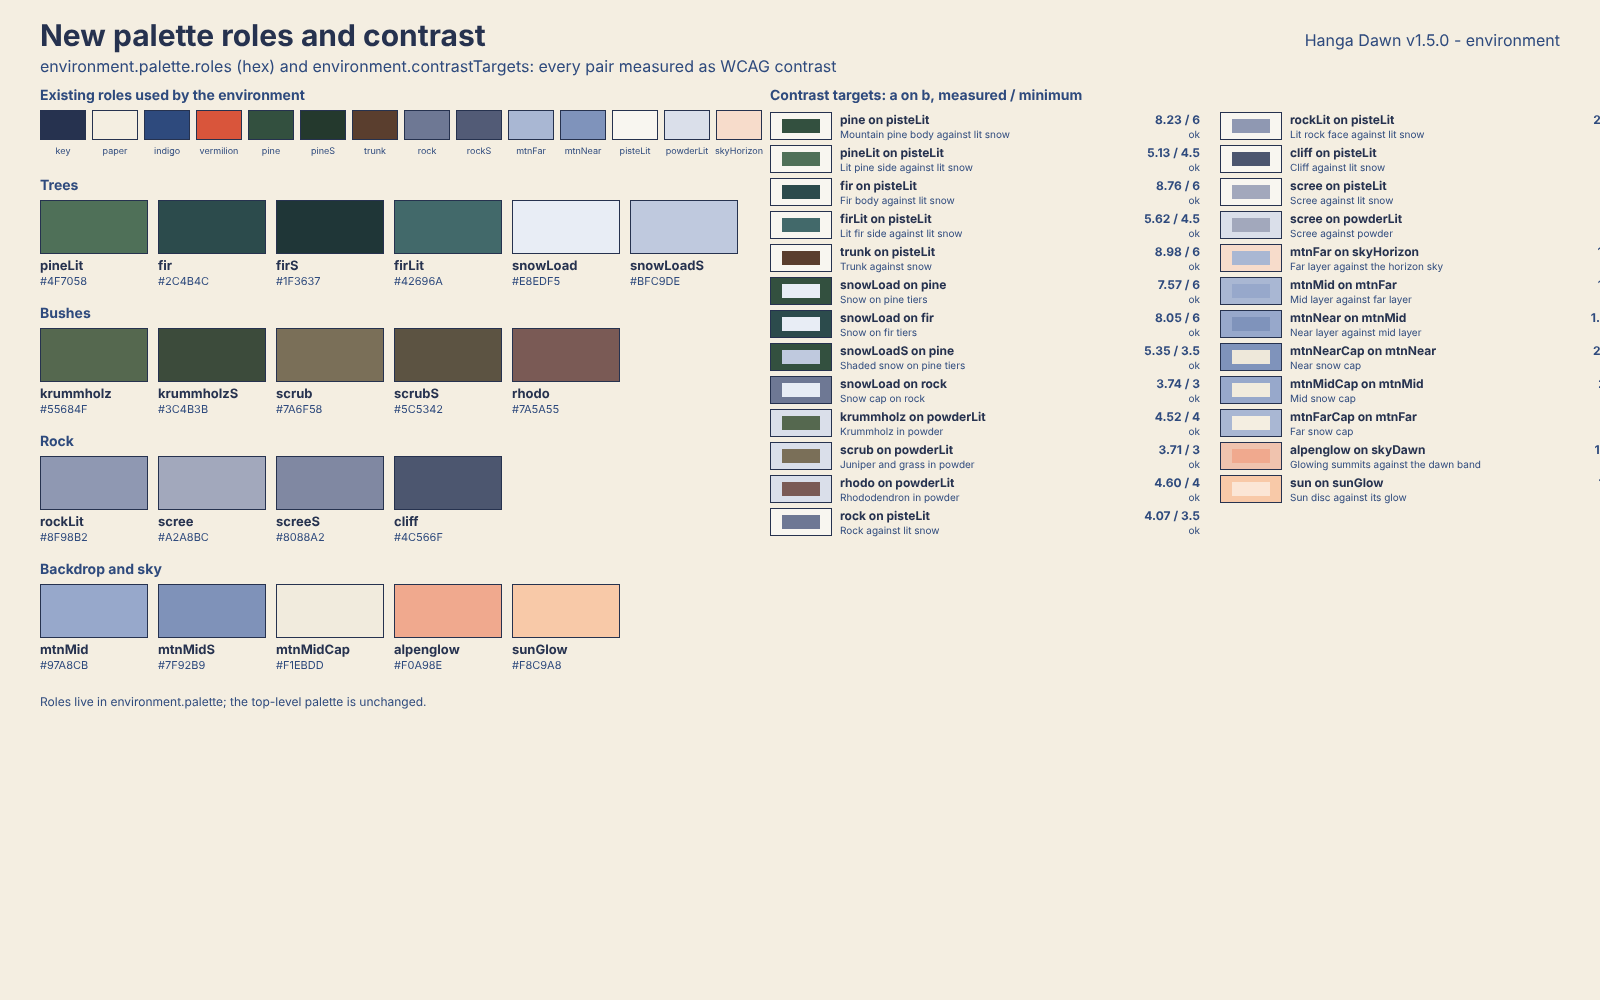
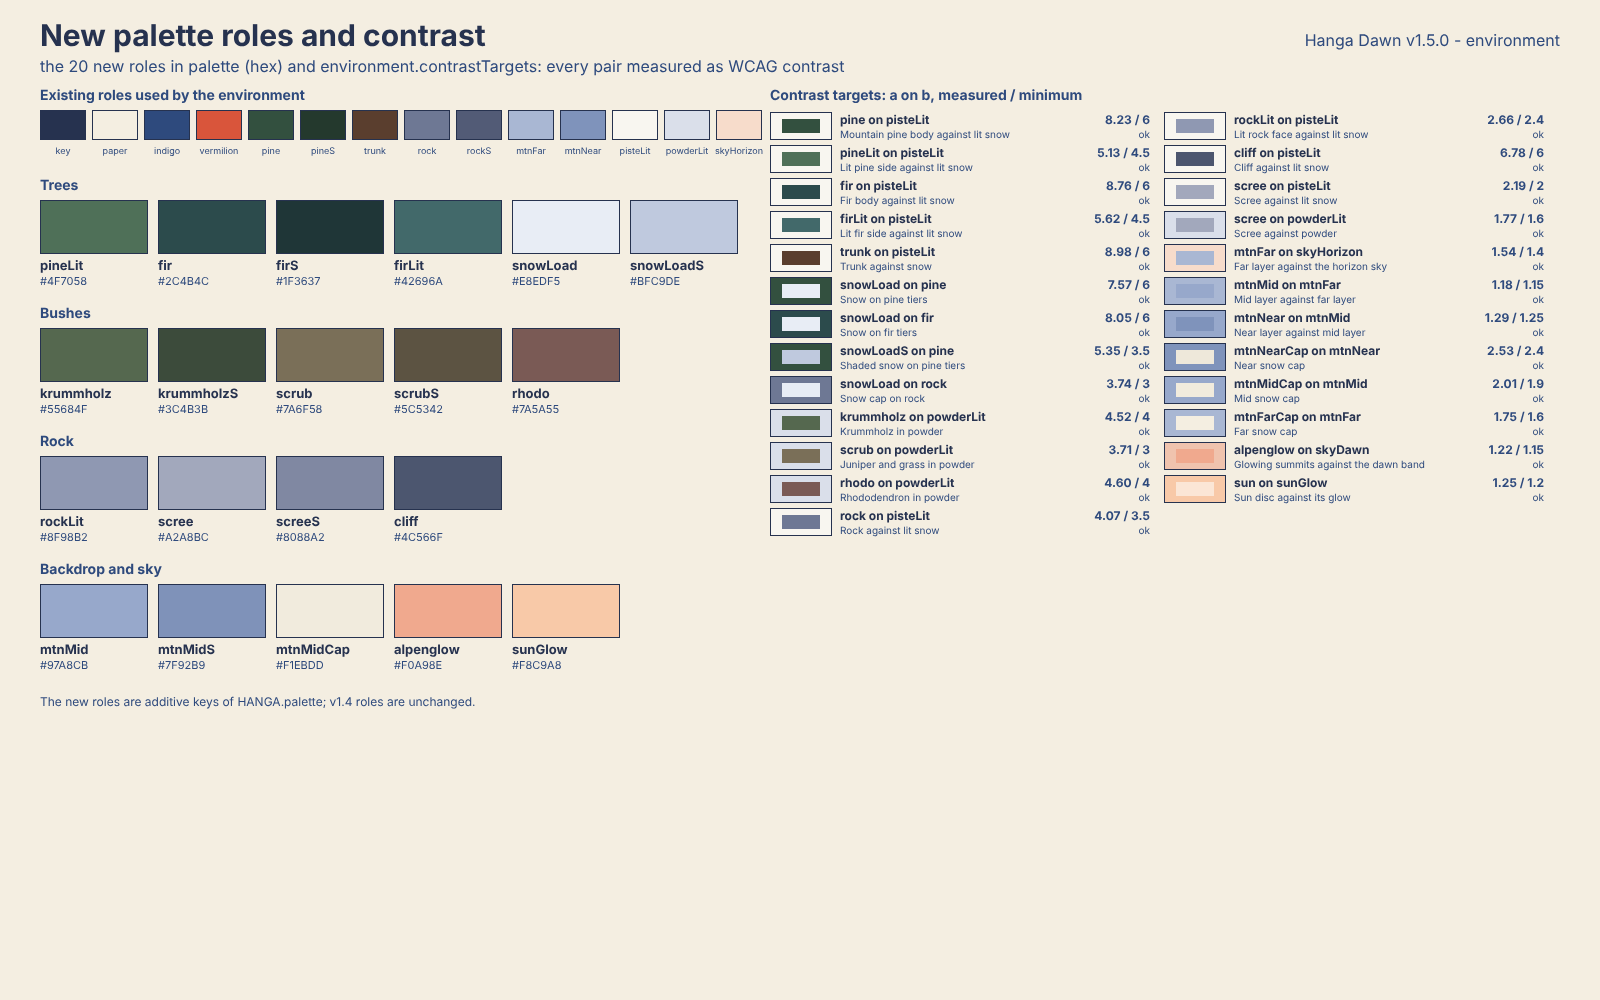
V1: one palette (new roles in palette), board fixes, sun question
hanga-v14: the palette check now requires every v1.3 role unchanged
instead of equality with v1.3, since later versions add roles.

Claude-Session: https://claude.ai/code/session_01BbjfAu3U7bX41eoRV1YJnj

diff --git a/docs/art/v1.5/board.html b/docs/art/v1.5/board.html
@@ -1,7 +1,6 @@
 <!doctype html>
 <!-- Hanga Dawn v1.5 boards: a design tool (S6), not game code. Reads art/gresca-hanga-spec.js and draws one 1600 x 1000
-     board per ?board=trees|rocks|sky|palette. Every colour is a palette role (HANGA.palette or
-     HANGA.environment.palette.roles). Make the PNGs with Playwright: see docs/art/HANGA-v1.5.md. -->
+     board per ?board=trees|rocks|sky|palette. Every colour is a palette role (HANGA.palette). Make the PNGs with Playwright: see docs/art/HANGA-v1.5.md. -->
 <meta charset="utf-8">
 <title>Hanga Dawn v1.5 boards</title>
 <style>html, body { margin: 0; background: #888; } canvas { display: block; }</style>
@@ -17,7 +16,7 @@ const HT = 1000;
 const FONT = 'system-ui, -apple-system, "Segoe UI", Helvetica, Arial, sans-serif';
 
 // ---- colour and drawing helpers -------------------------------------------------------------------------------
-const hexOf = (role) => H.palette[role] || E.palette.roles[role];
+const hexOf = (role) => H.palette[role];
 const toRgb = (role) => { const h = hexOf(role); return [1, 3, 5].map((i) => parseInt(h.slice(i, i + 2), 16)); };
 const mixRole = (a, b, t) => {
   const x = toRgb(a), y = toRgb(b);
@@ -334,7 +333,7 @@ function hazeAt(distM) {
   return { mix: s[s.length - 1].mix, role: s[s.length - 1].role };
 }
 const angDiff = (a, b) => ((a - b + 540) % 360) - 180; // signed degrees, a - b in (-180, 180]
-function skyPanel(y0, h, centre, hfov, caption) {
+function skyPanel(y0, h, centre, hfov, caption, step) {
   const sun = H.maps['el-tarter'].sun, bd = E.backdrops[H.maps['el-tarter'].backdrop], ridge = bd.ridge;
   const ppd = W / hfov, horizon = y0 + Math.round(h * 0.74);
   const xOf = (az) => W / 2 + angDiff(az, centre) * ppd;
@@ -411,7 +410,7 @@ function skyPanel(y0, h, centre, hfov, caption) {
   }
   // labels, staggered
   labels.sort((a, b) => a[0] - b[0]).forEach(([px, apexY, p], i) => {
-    const ly = Math.min(apexY - 16, horizon - 8) - (i % 4) * 22;
+    const ly = Math.min(apexY - 16, horizon - 8) - ((i * step) % 4) * 32;
     ctx.strokeStyle = hexOf('key'); ctx.lineWidth = 1; ctx.beginPath(); ctx.moveTo(px, apexY - 3); ctx.lineTo(px, ly + 4); ctx.stroke();
     text(p.name, px, ly - 12, 13, 'key', 'center', 700);
     text(p.altM + ' m, ' + (p.distM / 1000).toFixed(1) + ' km, ' + p.bearingCompassDeg.toFixed(0) + ' deg', px, ly + 2, 11, 'indigo', 'center');
@@ -423,13 +422,13 @@ function boardSky() {
   title('Dawn sky and the Pyrenees backdrop', 'From the El Tarter course start (2462 m). Real peak bearings, distances and altitudes; ridge height lifted x'
     + E.backdrops.pyrenees.ridge.verticalExaggeration + ' (ridge.verticalExaggeration)');
   const A = H.maps['el-tarter'];
-  skyPanel(90, 440, A.fallLineCompassDeg, 150, 'Looking down the course, compass ' + A.fallLineCompassDeg + ' deg (the sky and sun follow maps[el-tarter].sun, azimuth ' + A.sun.azimuthDeg + ')');
-  skyPanel(540, 456, A.sun.azimuthDeg, 150, 'Looking toward the sun, compass ' + A.sun.azimuthDeg + ' deg, elevation ' + A.sun.elevationDeg + ' deg: glow, alpenglow on far and mid caps');
+  skyPanel(90, 440, A.fallLineCompassDeg, 150, 'Looking down the course, compass ' + A.fallLineCompassDeg + ' deg (the sky and sun follow maps[el-tarter].sun, azimuth ' + A.sun.azimuthDeg + ')', 3);
+  skyPanel(540, 456, A.sun.azimuthDeg, 150, 'Looking toward the sun, compass ' + A.sun.azimuthDeg + ' deg, elevation ' + A.sun.elevationDeg + ' deg: glow, alpenglow on far and mid caps', 1);
 }
 
 // ---- board 4: palette and contrast --------------------------------------------------------------------------------
 function boardPalette() {
-  title('New palette roles and contrast', 'environment.palette.roles (hex) and environment.contrastTargets: every pair measured as WCAG contrast');
+  title('New palette roles and contrast', 'the 20 new roles in palette (hex) and environment.contrastTargets: every pair measured as WCAG contrast');
   const groups = [
     ['Trees', ['pineLit', 'fir', 'firS', 'firLit', 'snowLoad', 'snowLoadS']],
     ['Bushes', ['krummholz', 'krummholzS', 'scrub', 'scrubS', 'rhodo']],
@@ -450,13 +449,13 @@ function boardPalette() {
     });
     y += 128;
   });
-  text('Roles live in environment.palette; the top-level palette is unchanged.', 40, y + 4, 12, 'indigo');
+  text('The new roles are additive keys of HANGA.palette; v1.4 roles are unchanged.', 40, y + 4, 12, 'indigo');
   // contrast table
-  const list = E.contrastTargets, colW = 430, x0 = 770;
+  const list = E.contrastTargets, colW = 380, x0 = 770;
   const rows = Math.ceil(list.length / 2), rowH = 33;
   text('Contrast targets: a on b, measured / minimum', x0, 100, 14, 'indigo', 'left', 700);
   list.forEach((t, i) => {
-    const col = Math.floor(i / rows), row = i % rows, x = x0 + col * (colW + 20), yy = 112 + row * rowH;
+    const col = Math.floor(i / rows), row = i % rows, x = x0 + col * (colW + 14), yy = 112 + row * rowH;
     const ratio = contrast(t.a, t.b);
     ctx.fillStyle = hexOf(t.b); ctx.fillRect(x, yy, 62, 28);
     ctx.fillStyle = hexOf(t.a); ctx.fillRect(x + 12, yy + 7, 38, 14);

diff --git a/test/hanga-v15.test.js b/test/hanga-v15.test.js
@@ -21,12 +21,14 @@ const COURSE = readJson('el-tarter.course.json');
 const RAD_TO_DEG = 180 / Math.PI;
 const NEW_MAP_KEYS = ['backdrop', 'treeline', 'meanSlopeDegData', 'heightRangeM', 'courseAltitudeM', 'startWorld',
  'fallLineCompassDeg', 'sunData', 'dataNote'];
+const NEW_ROLES = ['pineLit', 'fir', 'firS', 'firLit', 'snowLoad', 'snowLoadS', 'krummholz', 'krummholzS', 'scrub',
+ 'scrubS', 'rhodo', 'rockLit', 'scree', 'screeS', 'cliff', 'mtnMid', 'mtnMidS', 'mtnMidCap', 'alpenglow', 'sunGlow'];
 const HEX = /^#[0-9A-F]{6}$/i;
 const BEARING_TOL_DEG = 0.1;
 const DIST_TOL_M = 1;
 
 const isObject = (v) => v !== null && typeof v === 'object';
-const hasRole = (role) => role in HANGA.palette || role in ENV.palette.roles;
+const hasRole = (role) => role in HANGA.palette;
 const inRange = (v, lo, hi, msg) => assert.ok(Number.isFinite(v) && v >= lo && v <= hi, `${msg}: ${v}`);
 
 const asLeaf = (v) => (typeof v === 'function' ? v.toString() : v);
@@ -70,7 +72,8 @@ test('v1.5 is additive over v1.4.0', async (t) => {
   assert.deepEqual(Object.keys(HANGA).filter((k) => !(k in V14)), ['environment']);
   assert.deepEqual(Object.keys(HANGA.maps['el-tarter']).filter((k) => !(k in V14.maps['el-tarter'])), NEW_MAP_KEYS);
   assert.deepEqual(Object.keys(HANGA.maps.procedural), Object.keys(V14.maps.procedural));
-  assert.deepEqual(HANGA.palette, V14.palette, 'palette is unchanged: the new roles are in environment.palette');
+  const added = Object.keys(HANGA.palette).filter((k) => !(k in V14.palette));
+  assert.deepEqual(added, NEW_ROLES, 'palette gains exactly the new roles');
  });
  await t.test('projectRider gives the v1.4 draw list for a spread of rigs, poses, yaws and options', () => {
   const optionSets = [undefined, {}, { cameraPitchDeg: 37 }, { twistDeg: 15, headYawDeg: -25 },
@@ -101,7 +104,7 @@ test('v1.5 is additive over v1.4.0', async (t) => {
 
 test('environment: structure, roles and numbers', async (t) => {
  await t.test('required sections and sets exist', () => {
-  for (const key of ['trees', 'treeline', 'bushes', 'rocks', 'sky', 'backdrops', 'palette', 'contrastTargets']) {
+  for (const key of ['trees', 'treeline', 'bushes', 'rocks', 'sky', 'backdrops', 'contrastTargets']) {
    assert.ok(isObject(ENV[key]), key);
   }
   assert.deepEqual(Object.keys(ENV.trees.sets), ['pine', 'sugi']);
@@ -113,26 +116,21 @@ test('environment: structure, roles and numbers', async (t) => {
   assert.ok(ENV.trees.sets[TARTER.treeSet] && ENV.backdrops[TARTER.backdrop], 'El Tarter finds its sets');
   assert.equal(HANGA.maps.procedural.treeSet in ENV.trees.sets, true);
  });
- await t.test('every number is finite and no colour is a raw hex outside environment.palette', () => {
+ await t.test('every number is finite and no colour is a raw hex', () => {
   numbers(ENV).forEach((n) => assert.ok(Number.isFinite(n)));
-  const rest = { ...ENV, palette: null };
-  assert.ok(!/#[0-9a-f]{3,8}\b/i.test(JSON.stringify(rest)), 'no raw hex');
-  for (const [role, hex] of Object.entries(ENV.palette.roles)) {
-   assert.match(hex, HEX, role);
-   assert.ok(!(role in HANGA.palette), `${role} is new`);
-  }
-  assert.equal(Object.keys(ENV.palette.roles).length, 20);
+  assert.ok(!/#[0-9a-f]{3,8}\b/i.test(JSON.stringify(ENV)), 'no raw hex');
+  for (const role of NEW_ROLES) assert.match(HANGA.palette[role], HEX, role);
  });
  await t.test('every role the environment names exists', () => {
-  const refs = roleRefs({ ...ENV, palette: null });
+  const refs = roleRefs(ENV);
   assert.ok(refs.length > 90, `${refs.length} references`);
   for (const role of new Set(refs)) assert.ok(hasRole(role), `role ${role}`);
-  for (const role of Object.keys(ENV.palette.roles)) assert.ok(refs.includes(role), `${role} is used`);
+  for (const role of NEW_ROLES) assert.ok(refs.includes(role), `${role} is used`);
  });
  await t.test('contrast targets hold', () => {
   const contrast = (a, b) => {
    const lum = (role) => {
-    const hex = HANGA.palette[role] || ENV.palette.roles[role];
+    const hex = HANGA.palette[role];
     return [1, 3, 5].map((i) => parseInt(hex.slice(i, i + 2), 16) / 255)
      .map((v) => (v <= 0.03928 ? v / 12.92 : ((v + 0.055) / 1.055) ** 2.4))
      .reduce((sum, v, i) => sum + v * [0.2126, 0.7152, 0.0722][i], 0);

diff --git a/art/gresca-hanga-spec.js b/art/gresca-hanga-spec.js
@@ -200,7 +200,27 @@ var HANGA = {
   "pineS": "#24392D",
   "railHi": "#9FB0D3",
   "spray": "#FBF8F1",
-  "sprayS": "#C3CCE0"
+  "sprayS": "#C3CCE0",
+  "pineLit": "#4F7058",
+  "fir": "#2C4B4C",
+  "firS": "#1F3637",
+  "firLit": "#42696A",
+  "snowLoad": "#E8EDF5",
+  "snowLoadS": "#BFC9DE",
+  "krummholz": "#55684F",
+  "krummholzS": "#3C4B3B",
+  "scrub": "#7A6F58",
+  "scrubS": "#5C5342",
+  "rhodo": "#7A5A55",
+  "rockLit": "#8F98B2",
+  "scree": "#A2A8BC",
+  "screeS": "#8088A2",
+  "cliff": "#4C566F",
+  "mtnMid": "#97A8CB",
+  "mtnMidS": "#7F92B9",
+  "mtnMidCap": "#F1EBDD",
+  "alpenglow": "#F0A98E",
+  "sunGlow": "#F8C9A8"
  },
  "camera": {
   "chasePitchDeg": 20,
@@ -6340,32 +6360,7 @@ var HANGA = {
     "min": 1.2,
     "why": "Sun disc against its glow"
    }
-  ],
-  "palette": {
-   "note": "New roles for the environment (sRGB hex). They live here, not in the top-level palette, so that palette stays exactly as in v1.4.0 (test/hanga-v14.test.js compares it with v1.3.0 whole). Code resolves a role from palette first, then from this object. Moving them into palette is one line of data and one test change; see HANGA-v1.5.md.",
-   "roles": {
-    "pineLit": "#4F7058",
-    "fir": "#2C4B4C",
-    "firS": "#1F3637",
-    "firLit": "#42696A",
-    "snowLoad": "#E8EDF5",
-    "snowLoadS": "#BFC9DE",
-    "krummholz": "#55684F",
-    "krummholzS": "#3C4B3B",
-    "scrub": "#7A6F58",
-    "scrubS": "#5C5342",
-    "rhodo": "#7A5A55",
-    "rockLit": "#8F98B2",
-    "scree": "#A2A8BC",
-    "screeS": "#8088A2",
-    "cliff": "#4C566F",
-    "mtnMid": "#97A8CB",
-    "mtnMidS": "#7F92B9",
-    "mtnMidCap": "#F1EBDD",
-    "alpenglow": "#F0A98E",
-    "sunGlow": "#F8C9A8"
-   }
-  }
+  ]
  },
  "terrain": {
   "sun": {

diff --git a/test/hanga-v14.test.js b/test/hanga-v14.test.js
@@ -57,7 +57,8 @@ test('v1.4 metadata', async (t) => {
       assert.deepEqual(HANGA.rider.equipment[rig].shapes, V13.rider.equipment[rig].shapes);
     }
     assert.deepEqual(HANGA.rider.widths, V13.rider.widths);
-    assert.deepEqual(HANGA.palette, V13.palette, 'palette roles unchanged');
+    // Later versions add roles; every v1.3 role keeps its colour.
+    for (const [role, hex] of Object.entries(V13.palette)) assert.equal(HANGA.palette[role], hex, `palette role ${role}`);
     assert.equal(HANGA.camera.chasePitchDeg, V13.camera.chasePitchDeg);
   });
   await t.test('new geometry uses palette roles only, and the file stays safe to inline', async () => {

diff --git a/docs/art/HANGA-v1.5.md b/docs/art/HANGA-v1.5.md
@@ -1,7 +1,7 @@
 # Hanga Dawn art spec v1.5.0: the environment
 
 `art/gresca-hanga-spec.js` goes from v1.4.0 to v1.5.0. The change is **additive**: one new top-level `environment`
-object and new keys on `maps['el-tarter']`. Nothing existing changes value; `projectRider` is the v1.4 function.
+object, 20 new `palette` keys and new keys on `maps['el-tarter']`. Nothing existing changes value; `projectRider` is the v1.4 function.
 `test/hanga-v15.test.js` checks this against `test/fixtures/hanga-spec-v1.4.0.cjs` (every key path and value, the
 helper functions' source, and `projectRider` over 1,000+ calls). The game does not read `environment` yet: S4 builds
 from it (see "What S4 builds"). Boards: `docs/art/v1.5/` (`trees`, `rocks`, `sky`, `palette` PNGs), drawn by
@@ -18,7 +18,7 @@ older; S6 V4 re-syncs it.
 | `environment.rocks` | `boulder`, `outcrop`, `screeField`, `cliffBand`, and the `snowRule`: slope thresholds and rock share, wind scour, snow cap. |
 | `environment.sky` | The dawn gradient as `{elevationDeg, role}` stops, how it follows `maps[id].sun`, sun disc (5 degrees) and glow, alpenglow, haze by distance. |
 | `environment.backdrops.pyrenees` | Three layers (near 2-8 km, mid 8-18 km, far 18-60 km), snow cap rule, ridge rule, ten named peaks. |
-| `environment.palette.roles` | 20 new colour roles, hex. |
+| `palette` (new keys) | 20 new colour roles, hex, added to the existing palette; v1.4 roles are unchanged. |
 | `environment.contrastTargets` | 25 contrast minimums for the new roles (tested). |
 | `maps['el-tarter']` | `backdrop`, `treeline` (absolute bands), and data-derived `meanSlopeDegData`, `heightRangeM`, `courseAltitudeM`, `startWorld`, `fallLineCompassDeg`, `sunData`, `dataNote`. |
 
@@ -82,17 +82,15 @@ The files carry no land cover, so the treeline itself stays art-directed.
 3. Bushes and rocks, and rock-through-snow on the terrain shader from `rocks.snowRule`.
 4. Sky gradient, sun and glow from `environment.sky` (with E4 dawn haze), following `maps[id].sun`.
 5. Backdrop ridge from `backdrops.pyrenees` and the baked `horizon`, three layers with haze and caps.
-6. Resolve new roles through `environment.palette.roles` as well as `palette` (Look tokens).
+6. Add the new `palette` roles to the Look tokens.
 
 ## Open questions
 
-- **Palette location.** The 20 new roles are in `environment.palette.roles`, not `palette`, because
-  `test/hanga-v14.test.js` compares `palette` with v1.3.0 whole. Moving them is one data edit plus relaxing that one
-  assertion to "every v1.3 role unchanged". Owner or coordinator to decide.
 - **Which sun.** `maps['el-tarter'].sun` is azimuth 110, which is 124 degrees off the fall line (346), outside the
-  60-120 rule in `terrain.sun.rule`. The baked course file says 76, which is 90 degrees off. I did not change either;
+  60-120 rule in `terrain.sun.rule`. The baked course file says 76, which is 90 degrees off. I did not change either (the owner is being asked);
   the boards follow the spec's 110.
 - **Tree fatness.** `trees.pine` draws a crown about 0.7 times its height wide; real mountain pine is 0.35-0.5. The
   new data uses 0.5. Owner to judge on the boards.
 - **Ridge height.** Real peaks are 1.5-6.5 degrees up, so the ridge is lifted 2x; S4 may tune it.
 - **Treeline value.** 2300 m is a regional rule of thumb; real land cover (R6) would replace it.
+- El Tarter sun: spec 110 (real winter dawn, ESE) vs baked 76 (fall line + 90); the 60-120 degree side-light rule.
